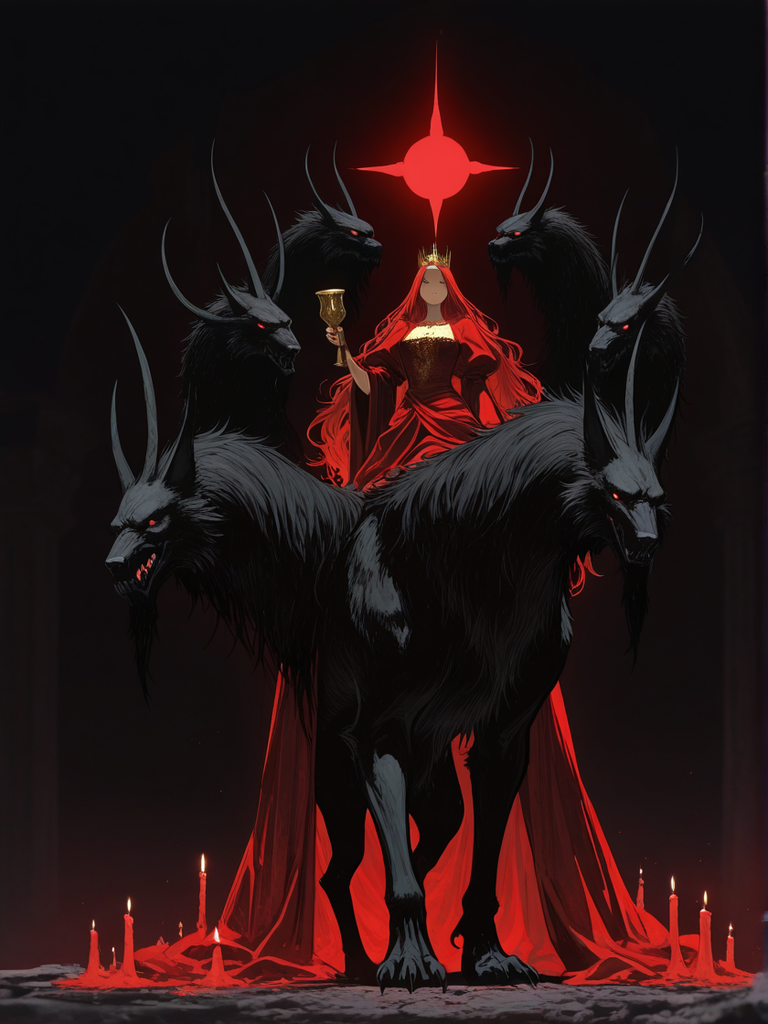
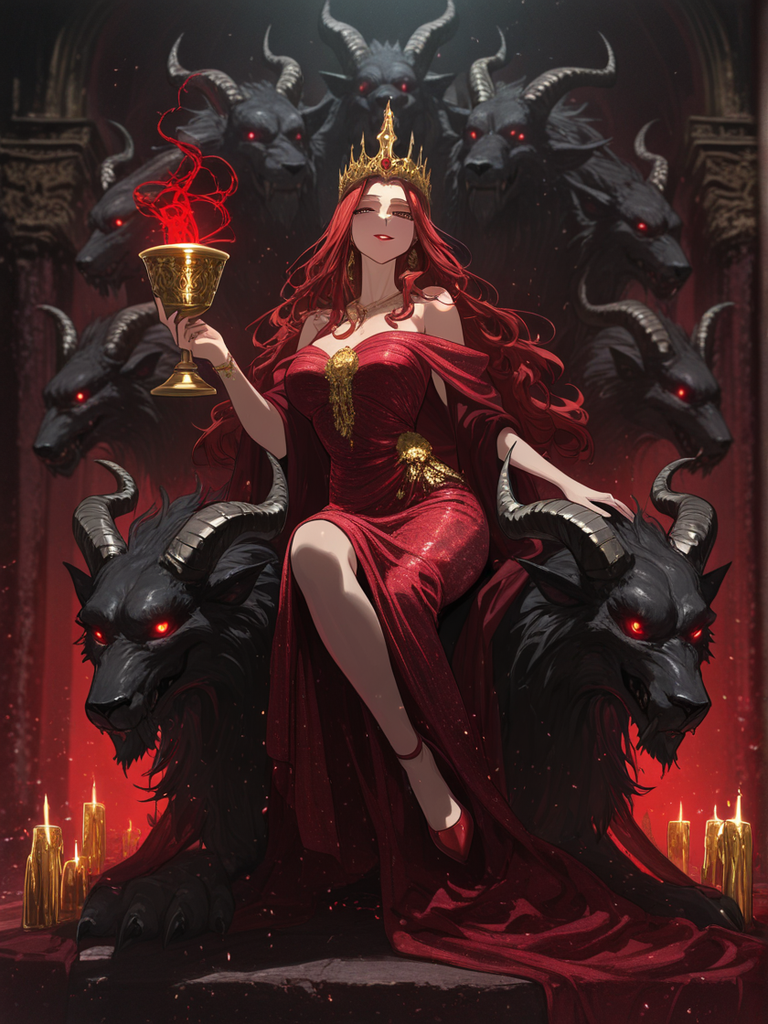
Babalon foil refeita: Mulher Escarlate em destaque, sentada na besta de sete cabeças

diff --git a/arte/foil_hibrido.py b/arte/foil_hibrido.py
@@ -10,6 +10,7 @@ ESTILO = ("Dark fantasy painterly illustration, epic and mythological, dramatic 
           "rich deep colors, highly detailed. ")
 P = {
  "ind_jaci": "Jaci, the Tupi moon goddess of the Brazilian Amazon: a serene Indigenous Brazilian woman with brown skin, long straight black hair with bangs, a white feather headdress and white body paint dots, wearing simple white cotton garments. She stands perfectly centered and facing the viewer, symmetrical, on the dark still water of an Amazon river among giant round Victoria amazonica water lilies. A huge full moon rises directly behind her head like a halo, and silver light glows between her open hands. Starry night sky, fireflies, silver reflections on the water.",
+ "alt_babalon": "Babalon, the Scarlet Woman of Thelema: a breathtakingly beautiful, alluring woman with long flowing red hair, a golden crown, red lips and a seductive, confident gaze straight at the viewer. She wears a clinging crimson silk gown with bare shoulders and a high leg slit, the bodice fully covering her chest, and heavy gold jewelry. She dominates the frame in a medium-full shot, seated astride a black beast whose seven horned heads fan out behind her like a dark crown. With one hand she raises a golden chalice overflowing with glowing red light. Dramatic red rim light, candles, occult temple shadows.",
  "cri_elias": "An old Hebrew prophet with a long white beard and a rough sheepskin mantle stands inside a war chariot made entirely of fire, with blazing wheels, pulled by two horses made of living flames. The chariot rises into the night sky inside a spiraling whirlwind, above a dark desert and the river Jordan. He looks upward, one hand raised. No helmet, no horns.",
  "cri_sao_miguel_arcanjo": "Archangel Michael, a stern adult warrior with short hair, golden armor and a red cape, huge white feathered wings and a golden halo. His right hand raises a flaming sword; his left hand holds golden balance scales. His armored foot presses down on the head of a defeated black dragon lying on the rocks. Storm clouds split by rays of heavenly light. No horns.",
  "tao_xiwangmu": "Xiwangmu, the Queen Mother of the West, a regal Chinese goddess around fifty years old, wearing an ornate golden phoenix crown and layered golden and crimson Han dynasty robes. She holds a single pink peach of immortality in her open palm, and a small blue bird perches on her other hand. She stands on a jade terrace of the Kunlun mountains among blossoming peach trees above a sea of clouds. She has no wings.",
